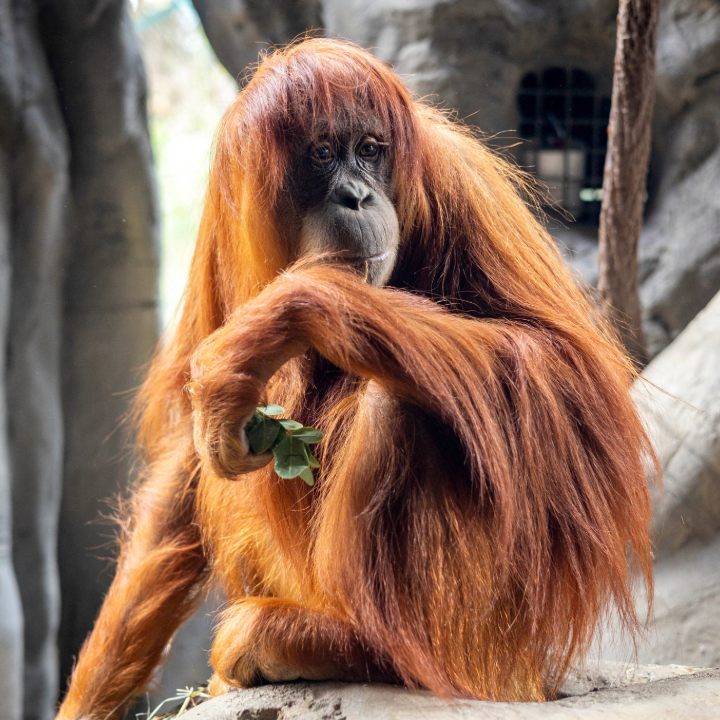
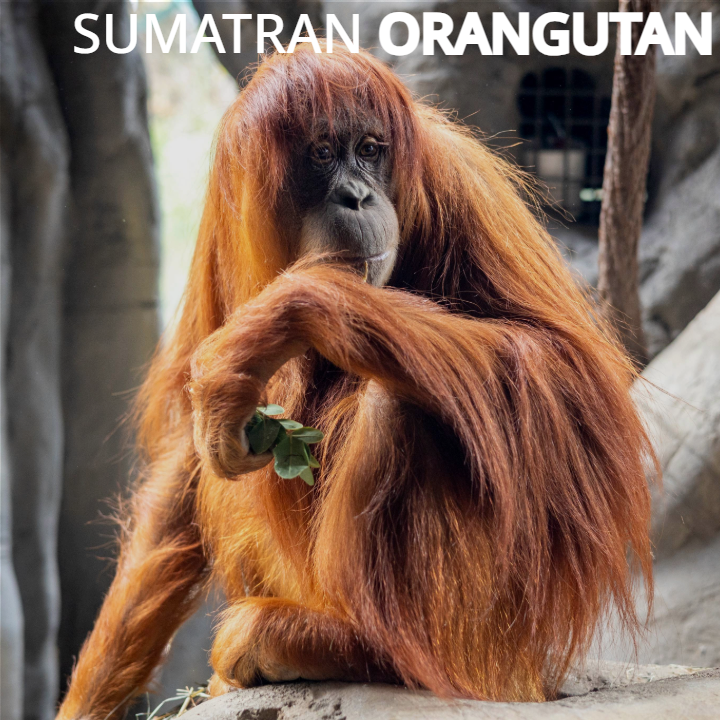
Refresh animal gallery images and links
Replaced legacy JPG assets with PNG versions for the gallery and updated the homepage image links to use consistent markup. This also adds a hover styling hook for index images and removes the old image text wrappers while cleaning up the page footer and comment formatting.

diff --git a/index.html b/index.html
@@ -24,28 +24,29 @@
         <nav>
             <div class="flex-daddy">
                 <section class="half">
-                    <a href="sumatranOrangutan.html"><img src="fcz_species_square-7-orangutan-ndari.png"
-                            alt="Sumatran Orangutan 1">Sumatran
-                        <strong>Orangutan</strong></img></a>
-                    <figcaption class="small">Source: <a href="https://fcz.org/animals/?tab=mammals#meet-our-animals">Fresno Chaffee
+                    <a href="sumatranOrangutan.html" class="index-images"><img
+                            src="fcz_species_square-7-orangutan-ndari.png" alt="Sumatran Orangutan 1"></img></a>
+                    <figcaption class="small">Source: <a
+                            href="https://fcz.org/animals/?tab=mammals#meet-our-animals">Fresno Chaffee
                             Zoo</a></figcaption>
-                    <a href="gaboonViper.html"><img src="Gaboon_Viper.jpg" alt="Gaboon Viper 1">Gaboon
-                        <strong>Viper</strong></img></a>
+                    <a href="gaboonViper.html" class="index-images"><img src="Gaboon_Viper.png"
+                            alt="Gaboon Viper 1"></img></a>
                     <figcaption class="small">Source: <a
                             href="https://fcz.org/animals/?tab=reptilesamphibians#meet-our-animals">Fresno
                             Chaffee Zoo</a>
                     </figcaption>
                 </section>
                 <section class="half">
-                    <a href="africanCichlid.html"><img src="african-cichlids.jpg" alt="African Cichlid 1">African
-                        <strong>Cichlid</strong>
-                        </img></a>
-                    <figcaption class="small">Source: <a href="https://fcz.org/animals/?tab=fish#meet-our-animals">Fresno Chaffee
+                    <a href="africanCichlid.html" class="index-images"><img src="african-cichlids.png"
+                            alt="African Cichlid 1"></img></a>
+                    <figcaption class="small">Source: <a
+                            href="https://fcz.org/animals/?tab=fish#meet-our-animals">Fresno Chaffee
                             Zoo</a>
                     </figcaption>
-                    <a href="kingVulture.html"><img src="King_Vulture.jpg" alt="King Vulture">King
-                        <strong>Vulture</strong></img></a>
-                    <figcaption class="small">Source: <a href="https://fcz.org/animals/?tab=birds#meet-our-animals">Fresno Chaffee
+                    <a href="kingVulture.html" class="index-images"><img src="King_Vulture.png"
+                            alt="King Vulture"></img></a>
+                    <figcaption class="small">Source: <a
+                            href="https://fcz.org/animals/?tab=birds#meet-our-animals">Fresno Chaffee
                             Zoo</a>
                     </figcaption>
                 </section>
@@ -56,3 +57,5 @@
 </body>
 
 </html>
+
+<!--https://www.youtube.com/watch?v=NHb3o3sP9iA-->

diff --git a/app.css b/app.css
@@ -61,3 +61,7 @@ h1 {
 .small {
     font-size: 10px;
 }
+
+.index-images a:hover {
+    image-rendering: ;
+}
